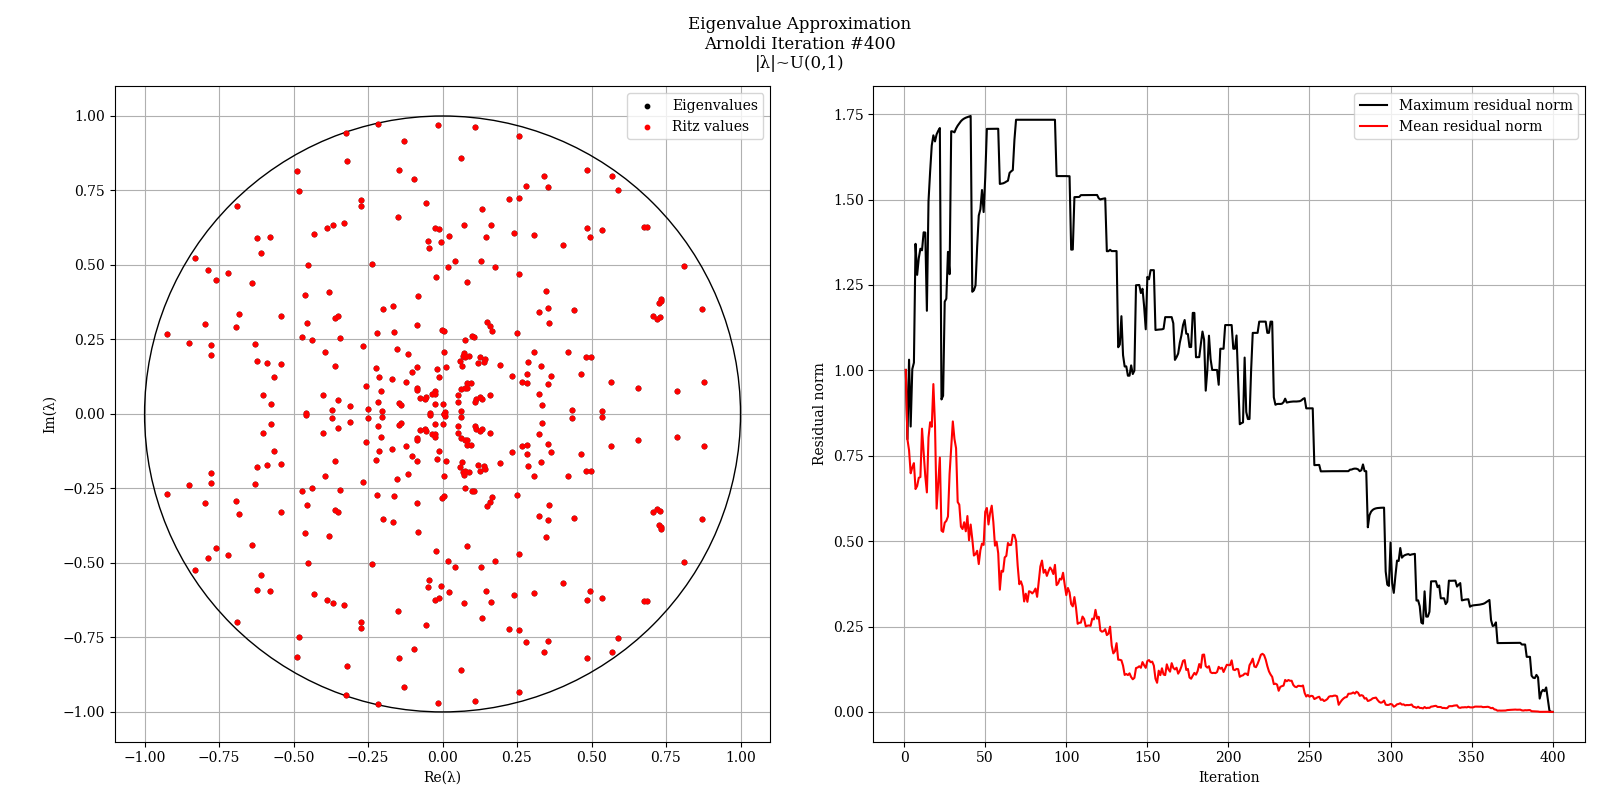
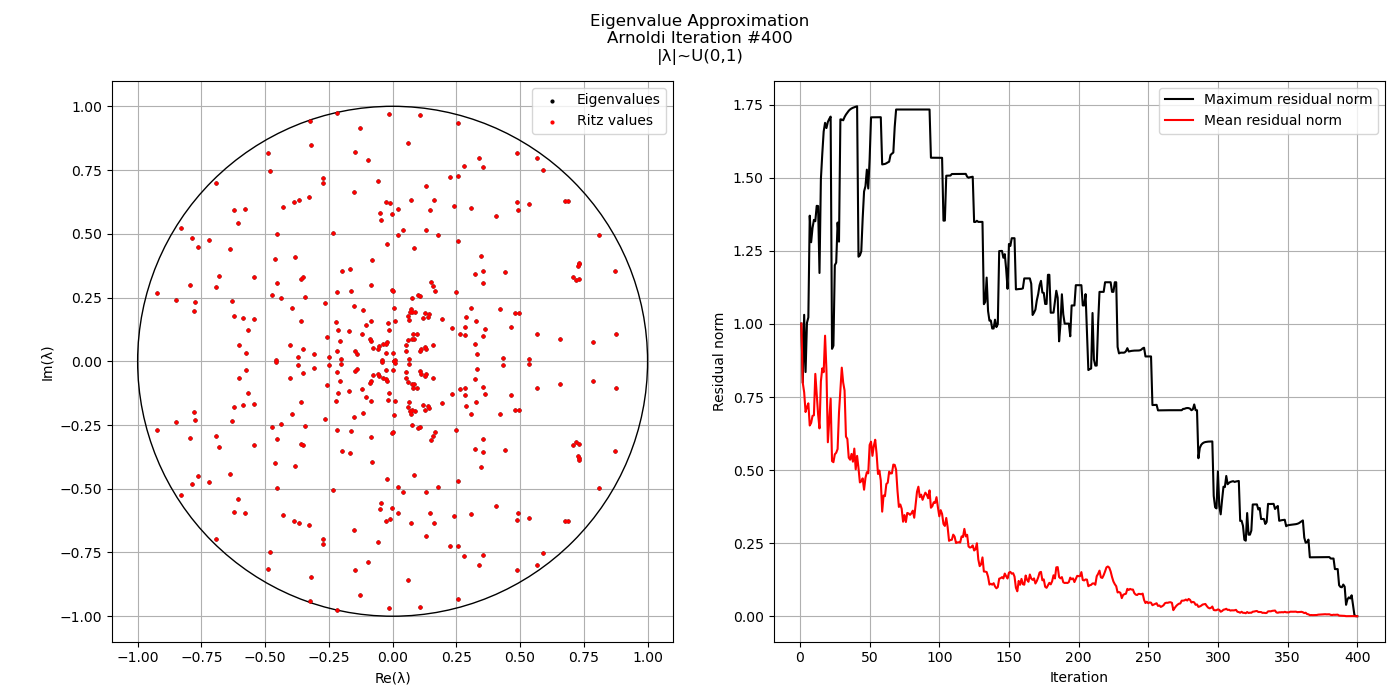
Update README.md

diff --git a/src/convergence.py b/src/convergence.py
@@ -9,7 +9,7 @@ def parse_arguments():
 
     parser = argparse.ArgumentParser('convergence.py', add_help=False)
     parser.add_argument('-i', '--input', type=str)
-    parser.add_argument('-o', '--output')
+    parser.add_argument('-o', '--output', type=str)
     parser.add_argument('-h', '--help', action='store_true')
     args = parser.parse_args()
 
@@ -19,9 +19,9 @@ def parse_arguments():
             "Uses the output of the 'convergence' executable to animate the convergence of the Ritz values\n" \
             "and compare the approximation with 'n' largest eigenvalues of the matrix A\n\n"
             "Options: \n" \
-            "  -i, --input      Input directory containing the output of the \'convergence\' executable\n" \
-            "  -o, --output     Output directory, defaults to the input directory\n" \
-            "  -h, --help       Display this help message")
+            "  -i, --input <directory>      Input directory containing the output of the \'convergence\' executable\n" \
+            "  -o, --output <directory>     Output directory (default: same as --input)\n" \
+            "  -h, --help                   Display this help message")
         sys.exit(0)
 
     input_prefix = args.input
@@ -45,6 +45,8 @@ if __name__ == "__main__":
     import pandas as pd
     import numpy as np
 
+    print("Preparing the graphics presentation, this may take a while...")
+
     os.system(f"mkdir -p {output_prefix}/figures")
 
     # Eigenvalues of A
@@ -64,7 +66,7 @@ if __name__ == "__main__":
 
     # Plot approximation steps
 
-    fig, axes = plt.subplots(1, 2, figsize=(10,5))
+    fig, axes = plt.subplots(1, 2, figsize=(14,7))
     figtitle = fig.suptitle(title_str.format(nelem, zpad))
 
     ax1 = axes[0]

diff --git a/README.md b/README.md
@@ -1,3 +1,53 @@
 # Arnoldi Iteration
 
-TODO: Add (Implicit?) QR algorithm
+Eigenvalue approximation using the Arnoldi Iteration.
+
+<p align="center">
+    Figure 1: Convergence of the Ritz values of a random 400x400 matrix
+    <br>
+    <img src="./figures/convergence.gif" alt="ritz" width="800"/>
+    <br><br>
+</p>
+
+# Setup
+
+Execute the **setup** script located in the top-level directory. The script should create a Conda environment named "arnoldi" from the environment.yml file containing all the necessary packages for building the project. It will then compile all the necessary libraries and executables using CMake, as well as add the libraries to LD_LIBRARY_PATH and the executables to PATH.
+
+# Instructions
+
+Source the **setvars.sh** script inside the **install** directory. This should make the **clock**, **convergence** and **convergence.py** programs available through the command-line.
+
+### clock [--help] [options]
+
+The **clock** program generates a random square matrix with known eigenvalues |λ| ~ U(0,1) and clocks the execution time of the approximation using the Arnoldi Iteration and Francis's QR Algorithm.
+
+Options: 
+  - **-m \<N\>** : Size of the linear system (default: 400)
+  - **-n \<N\>** : Dimension of the Krylov subspace (default: 400)
+  - **-s, --seed \<N\>** : Random seed used for eigenvalue generation (default: 42)
+  - **-o, --output \<directory\>** : Output directory (default: ./data/clock)
+  - **-h, --help** : Display the help message
+
+The program prints out the time spent executing both of these algorithms, and writes the random matrix, its eigenvalues and the results of the approximation as output.
+
+### convergence [--help] [options]
+
+The **convergence** program will generate a random square matrix with known eigenvalues |λ| ~ U(0,1) and execute Francis's QR Algorithm at each step of the Arnoldi Iteration, creating a history of the approximation.
+
+Options: 
+  - **-m \<N\>** : Size of the linear system (default: 400)
+  - **-n \<N\>** : Dimension of the Krylov subspace (default: 400)
+  - **-s, --seed \<N\>** : Random seed used for eigenvalue generation (default: 42)
+  - **-o, --output \<directory\>** : Output directory (default: ./data/convergence)
+  - **-h, --help** : Display the help message
+
+The program writes the random matrix, its eigenvalues and the Ritz values obtained in the intermediary steps of the Arnoldi iteration as output. At the end of its execution, it will run the **convergence.py** script and create a graphics presentation of the approximation.
+
+### convergence.py -i \<directory\> [--help] [options]
+
+The **convergence.py** script takes the output of a **convergence** run and creates a gif animation of the approximation.
+
+Options: 
+  - **-i, --input \<directory\>** : Input directory containing the output of the 'convergence' executable
+  - **-o, --output \<directory\>** : Output directory, defaults to the input directory
+  - **-h, --help** : Display the help message
